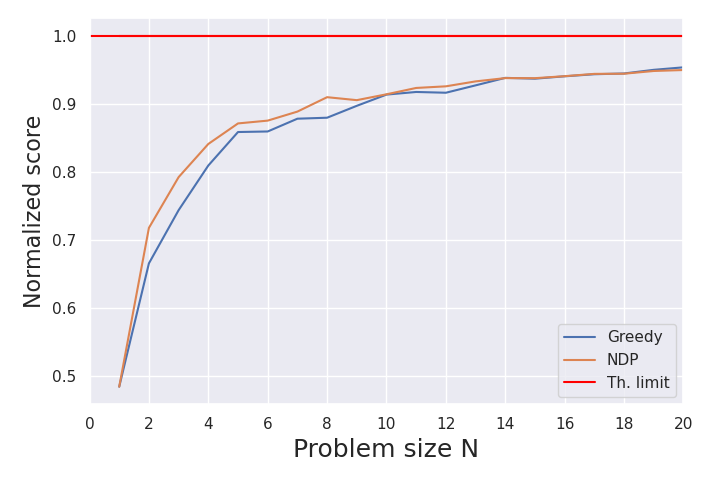
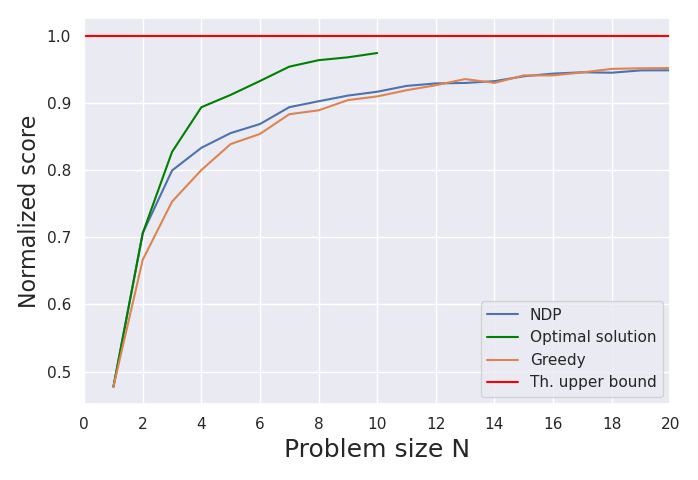
Add true score calculations

diff --git a/ndp/test.py b/ndp/test.py
@@ -3,18 +3,40 @@ import numpy as np
 import matplotlib.pyplot as plt
 
 from tqdm import tqdm, trange
+import itertools as its
+
 from model import Agent
 
-def greedy(cost): # for comparison purposes only
-    if cost.shape[0] == 0:
-        return 0
-    if cost.shape[0] == 1:
-        return cost[0,0,0]
-    immidiate_reward = cost.max()
+def greedy(cost):
+    if cost.shape[0] <= 1:
+        return cost.sum()
+    immediate_reward = cost.max()
     indexes = np.unravel_index(cost.argmax(), cost.shape)
     for axis, index in enumerate(indexes):
         cost = np.delete(cost, index, axis=axis)
-    return immidiate_reward + greedy(cost)
+    return immediate_reward + greedy(cost)
+
+dp_limit = 10
+
+def dp(cost):
+    n = cost.shape[0]
+    if n <= 1:
+        return cost.sum()
+    if n > dp_limit:
+        return float("NaN") # timeout
+    m = 1 << n
+    dp = np.zeros((m, m))
+    for mask_j, mask_k in its.product(range(m), repeat=2):
+        if mask_j.bit_count() != mask_k.bit_count():
+            continue
+        i = mask_j.bit_count()
+        for j, k in its.product(range(n), repeat=2):
+            new_mask_j = mask_j | (1 << j)
+            new_mask_k = mask_k | (1 << k)
+            if new_mask_k != mask_k and new_mask_j != mask_j:
+                dp[new_mask_j][new_mask_k] = max(dp[new_mask_j, new_mask_k], 
+                    dp[mask_j][mask_k] + cost[i, j, k])
+    return dp[m - 1, m - 1]
 
 def main():
     N = 20
@@ -23,22 +45,29 @@ def main():
     attempts = 50
     greedy_scores = []
     ndp_scores = []
-    for n in trange(1, 21, desc="Testing"):
+    optimal_scores = []
+    for n in trange(1, N + 1, desc="Testing"):
         greedy_total_score = 0
         ndp_total_score = 0
+        optimal_total_score = 0
         for _ in range(attempts):
             instance = torch.rand((n, n, n))
             greedy_total_score += greedy(instance.numpy())
             ndp_total_score += agent.act(instance)
+            optimal_total_score += dp(instance.numpy())
         greedy_scores.append(greedy_total_score / attempts)
         ndp_scores.append(ndp_total_score / attempts)
+        optimal_scores.append(optimal_total_score / attempts)
     np.save(open(f"./logs/greedy_scores.npy", "wb"), np.array(greedy_scores))
     np.save(open(f"./logs/ndp_scores.npy", "wb"), np.array(ndp_scores))
+    np.save(open(f"./logs/optimal_scores.npy", "wb"), np.array(optimal_scores[:dp_limit]))
 
     print('Estimated average scores on random 3AP instances:\n')
-    print(f"{'n': <3}{'Greedy':^10}{'NDP':^10}")
-    for n in range(1, 21):
-        print(f"{n:<3}{greedy_scores[n-1]:^10.2f}{ndp_scores[n-1]:^10.2f}")
+    print(f"{'n': <3}{'Greedy':^10}{'NDP':^10}{'Optimal':^10}")
+    for n in range(1, dp_limit + 1):
+        print(f"{n:<3}{greedy_scores[n-1]:^10.2f}{ndp_scores[n-1]:^10.2f}{optimal_scores[n-1]:^10.2f}")
+    for n in range(dp_limit, N + 1):
+        print(f"{n:<3}{greedy_scores[n-1]:^10.2f}{ndp_scores[n-1]:^10.2f}{'--':^10}")
 
 if __name__=="__main__":
     main()
